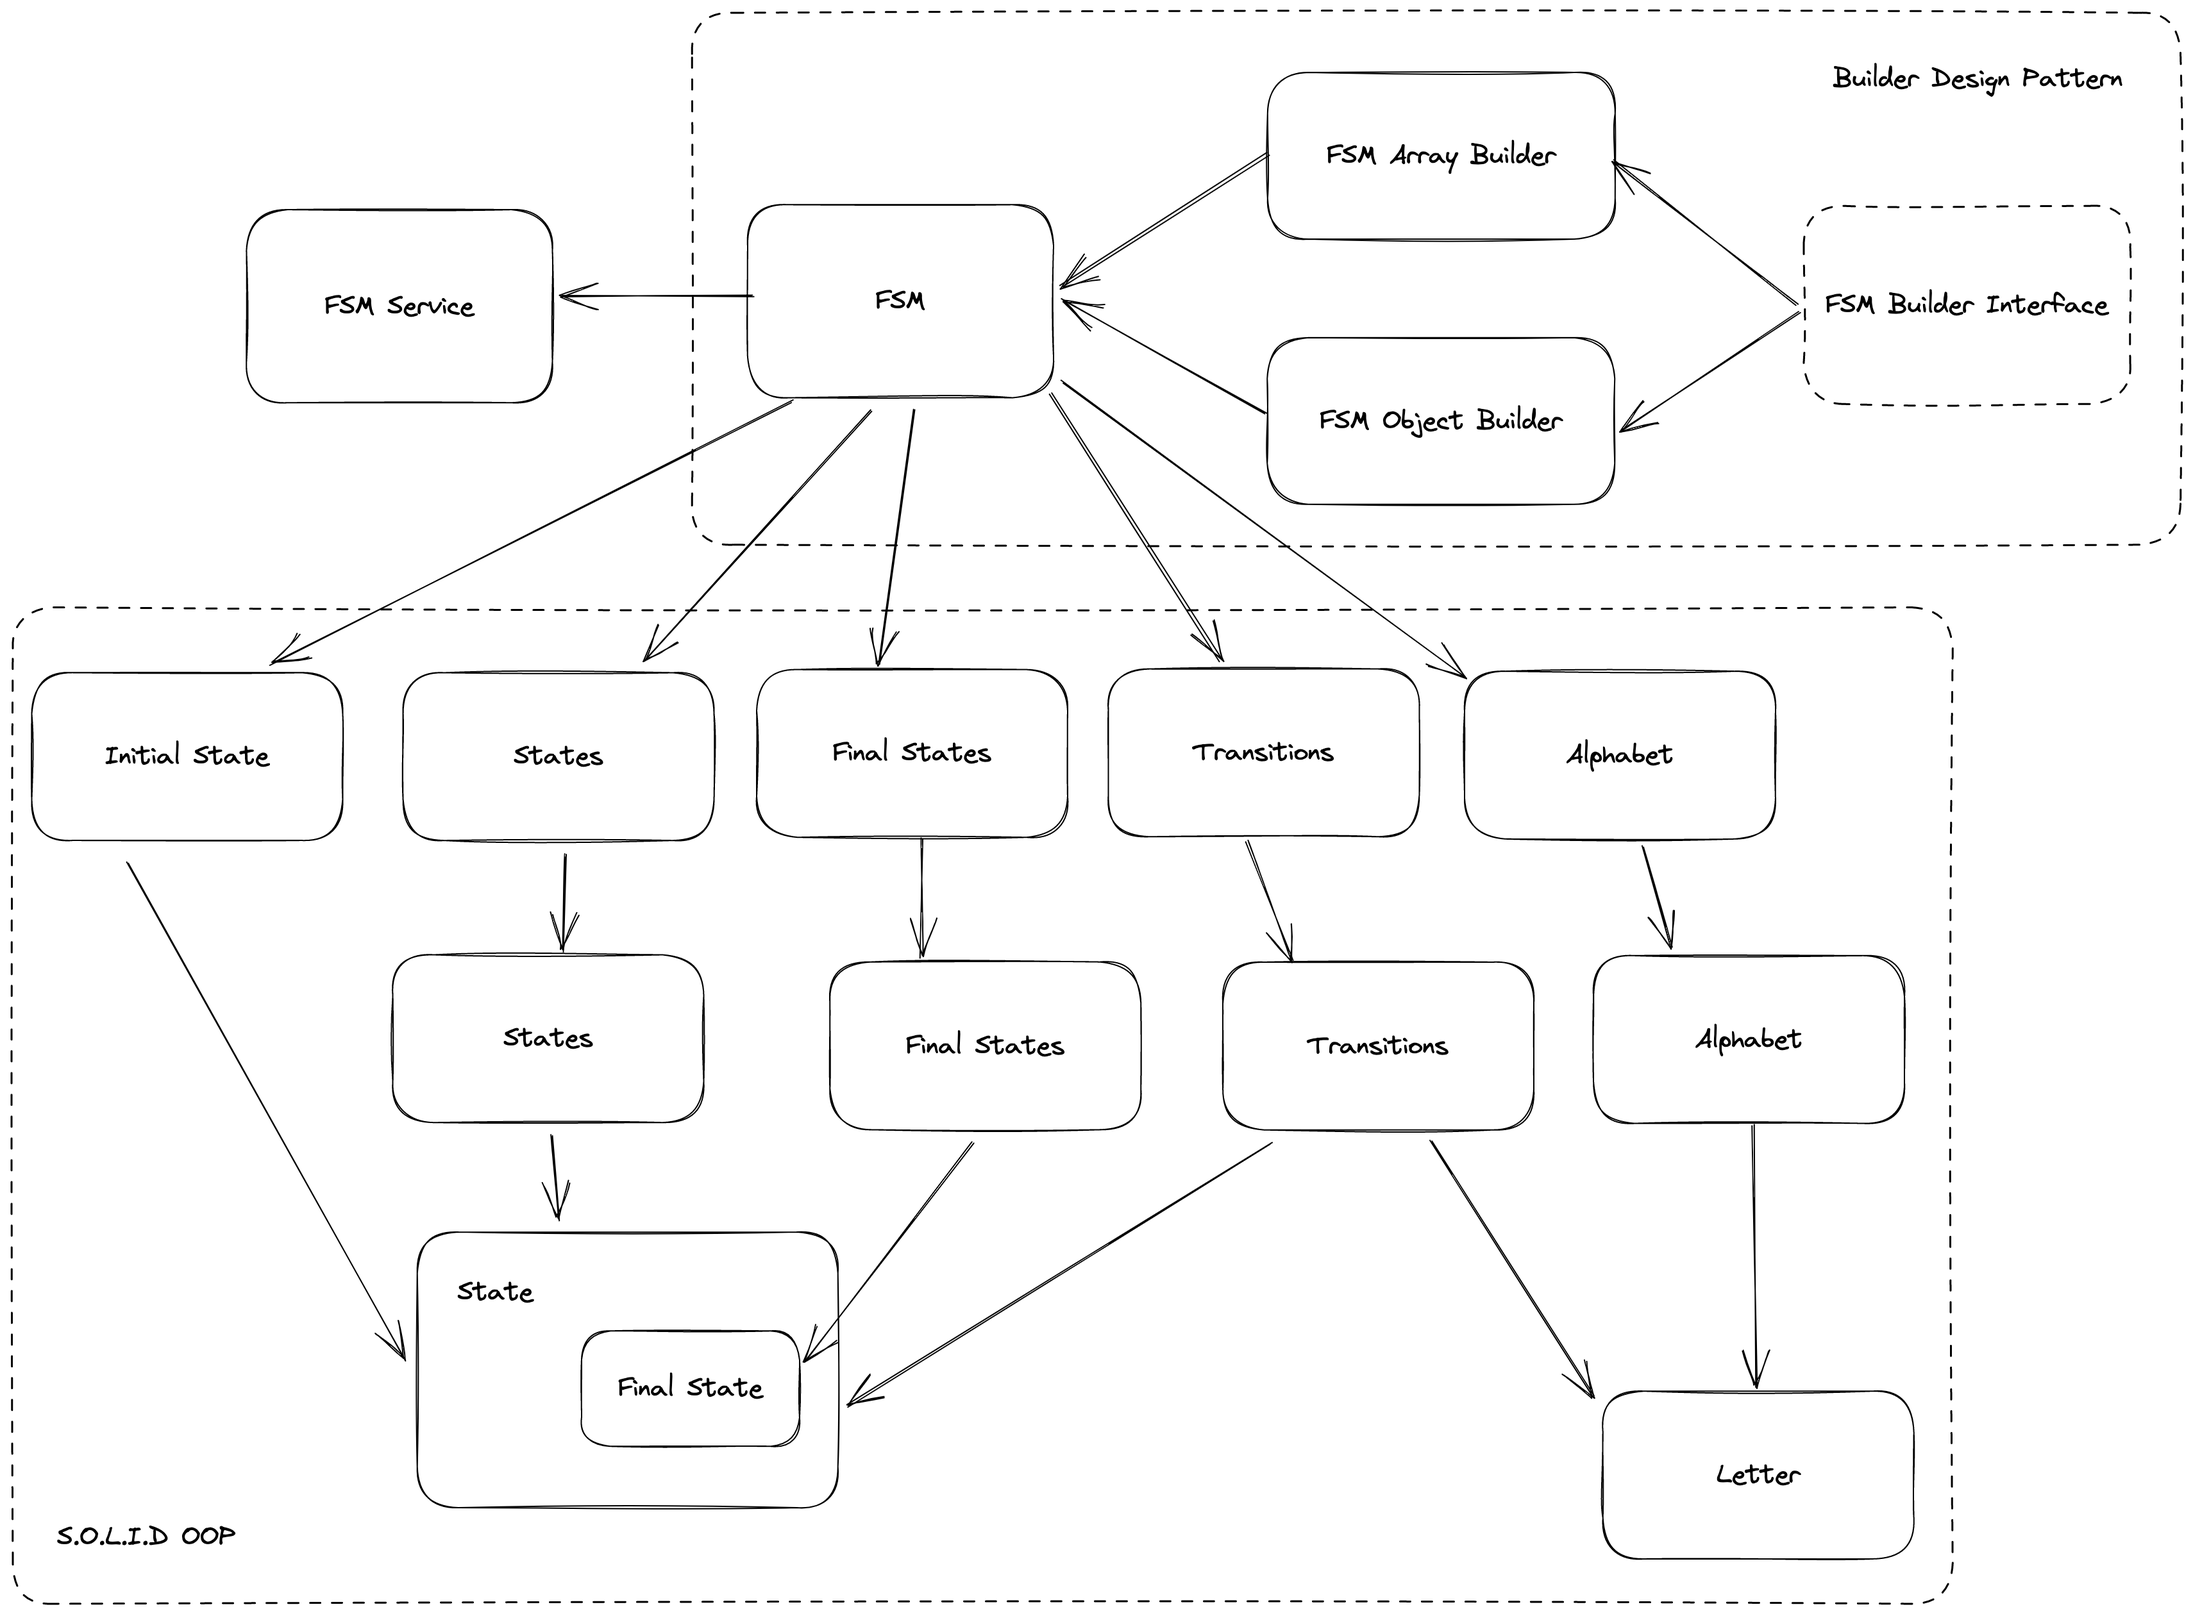
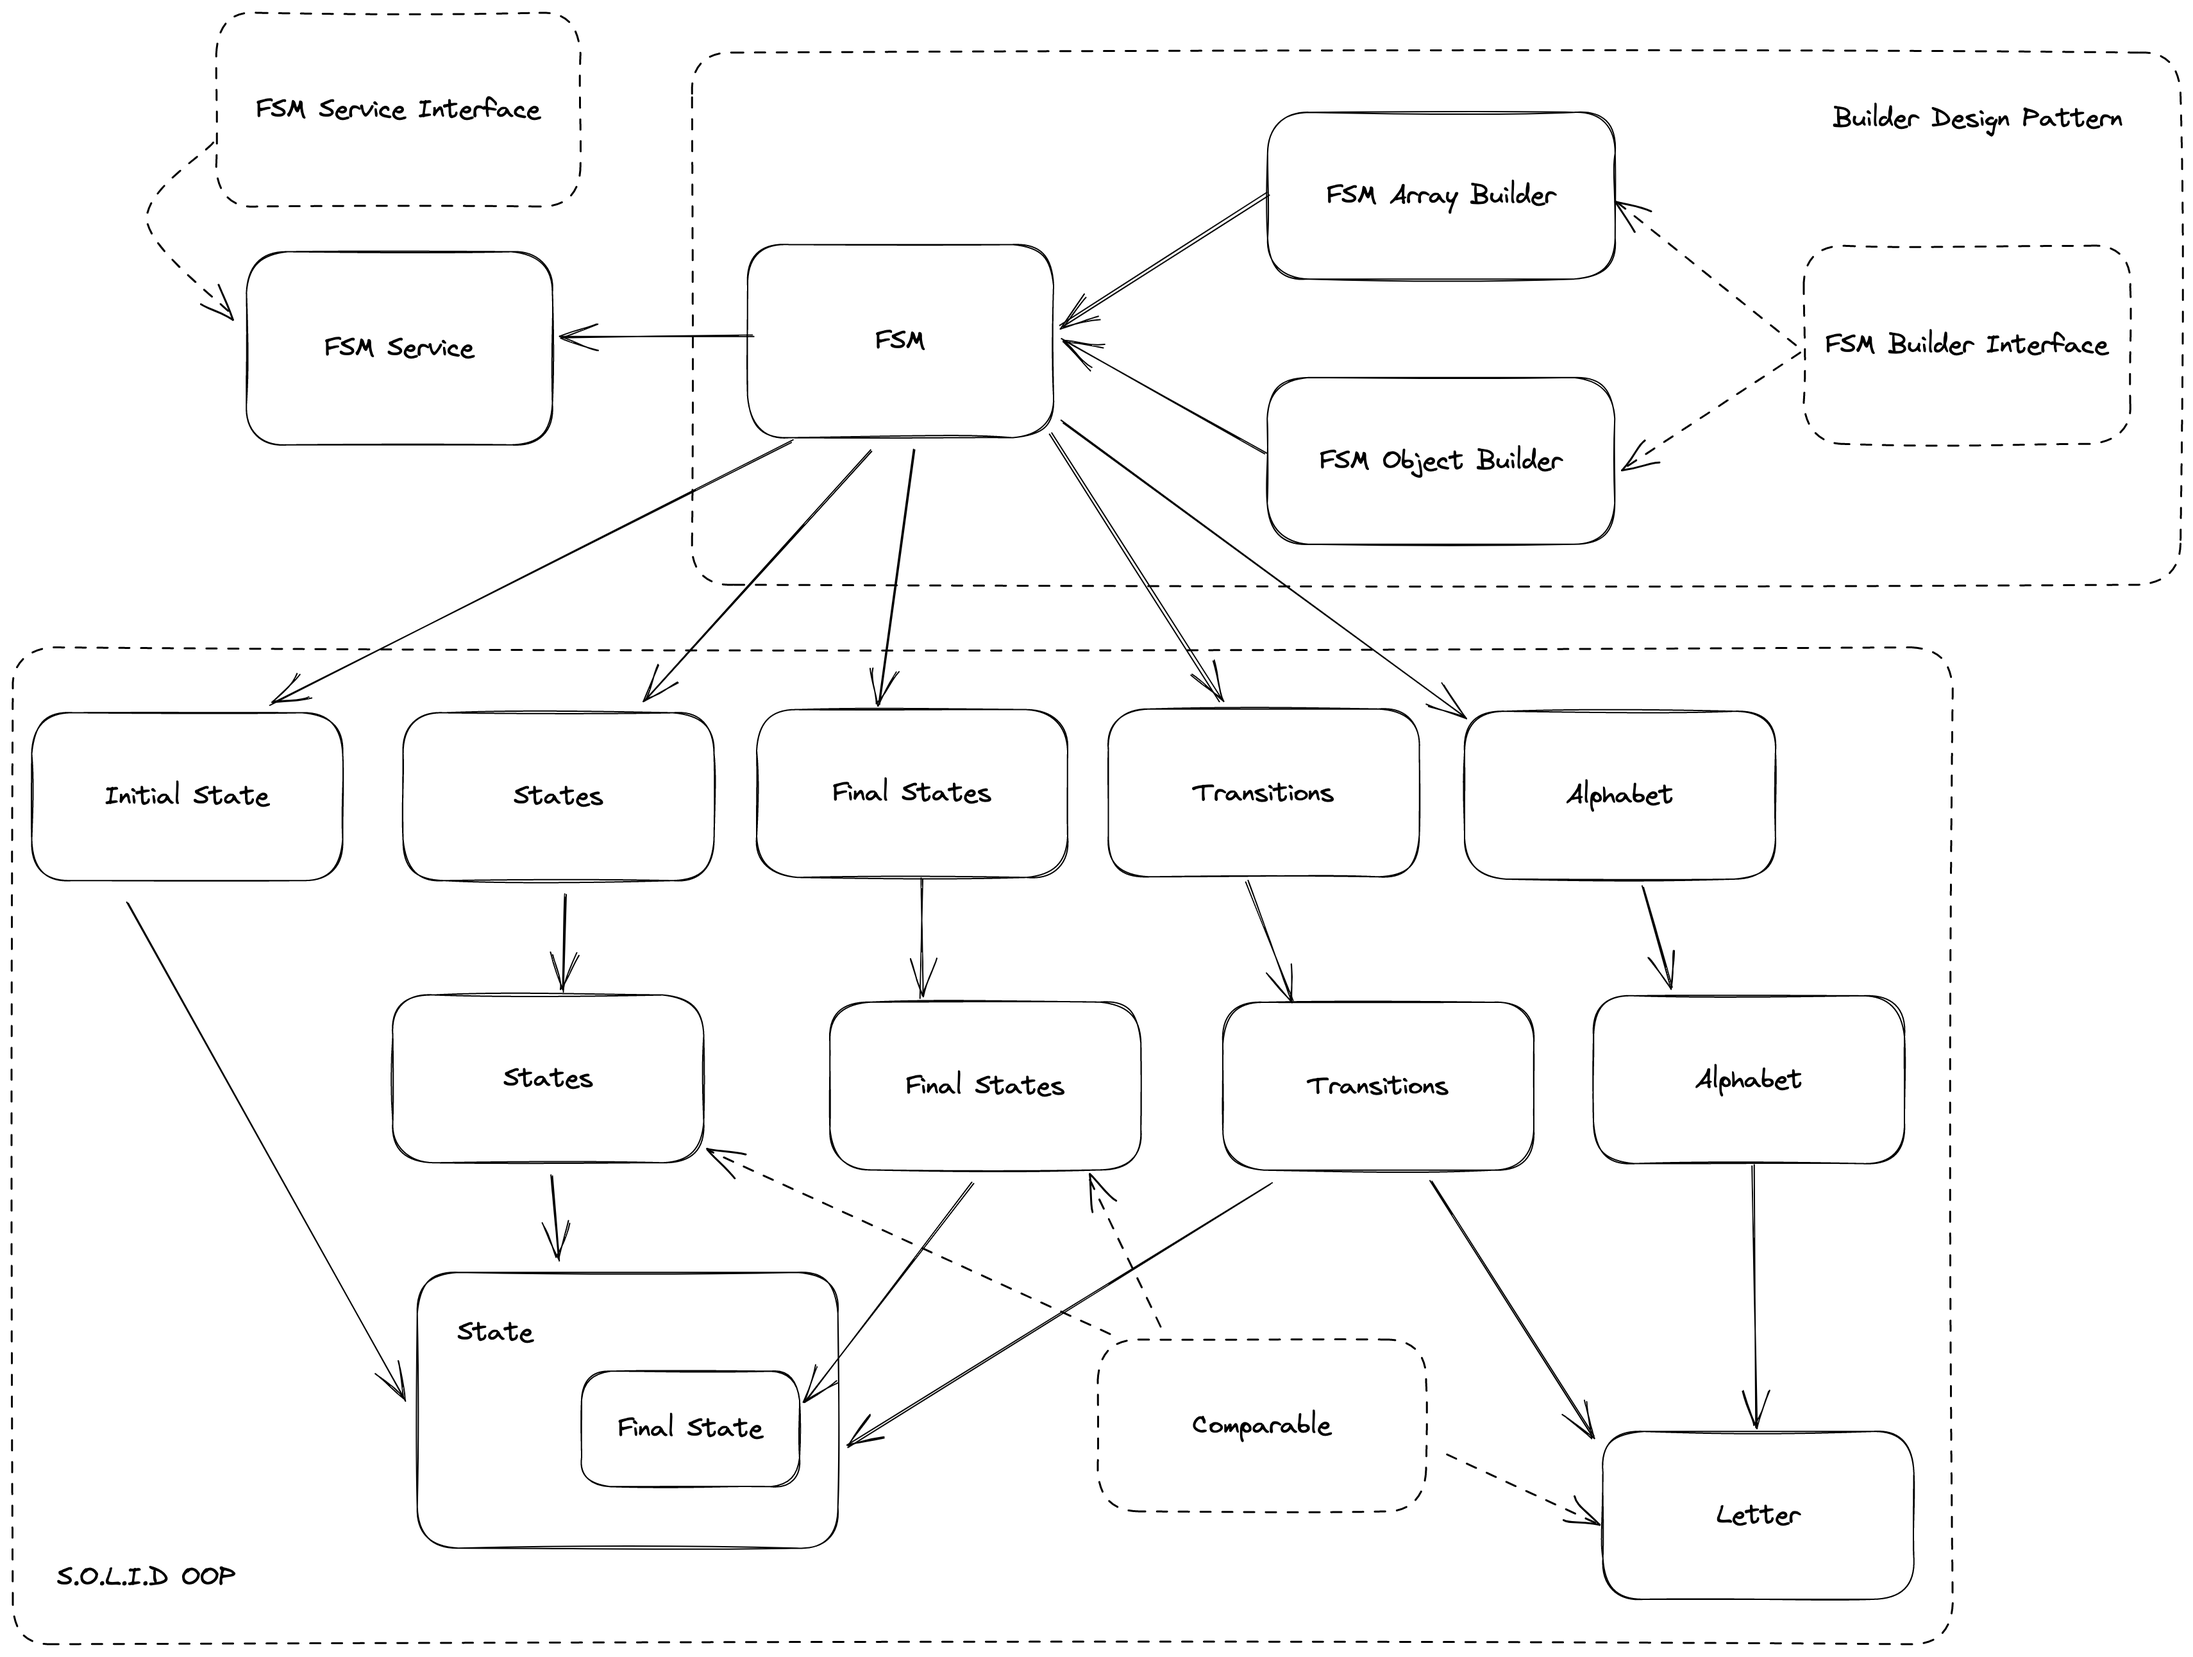
Update README

diff --git a/README.md b/README.md
@@ -61,6 +61,11 @@ Create a software module for generating an FSM (Finite State Machine). The API o
 ### Class Structure
 
 - FSM: the finite state machine
+  - FSM:
+    - FSM: The main FSM client, this is designed as a Model, only storing the essential data sets
+    - FSM Array Builder: Build FSM object by setting essential data in batch (array)
+    - FSM Object Builder: Build FSM object by inserting essential data individually
+    - FSM Service: The main service for the App, it has process and reset functionalities
   - Alphabet: Letter object set
     - Letter: Accepting letter in FSM, implemented Comparable interface
   - States: State object set
@@ -69,7 +74,10 @@ Create a software module for generating an FSM (Finite State Machine). The API o
     - FinalState: Accepting state with its name and output, extended from State, implemented Comparable interface
   - Transitions: Transition object set
     - Transition: Accepting transition with its state(State), input(Letter), and destination(State)
-  - Comparable interface: provide standard interface method to compare between objects
+  - Interfaces:
+    - Comparable interface: provide standard interface method to compare between objects
+    - FSM Service: provide standard interface methods for the main service, so leave more implementation possibility for other developers
+    - Builder: provide standard interface methods for the FSM builders
 
 ### Procedure
 
